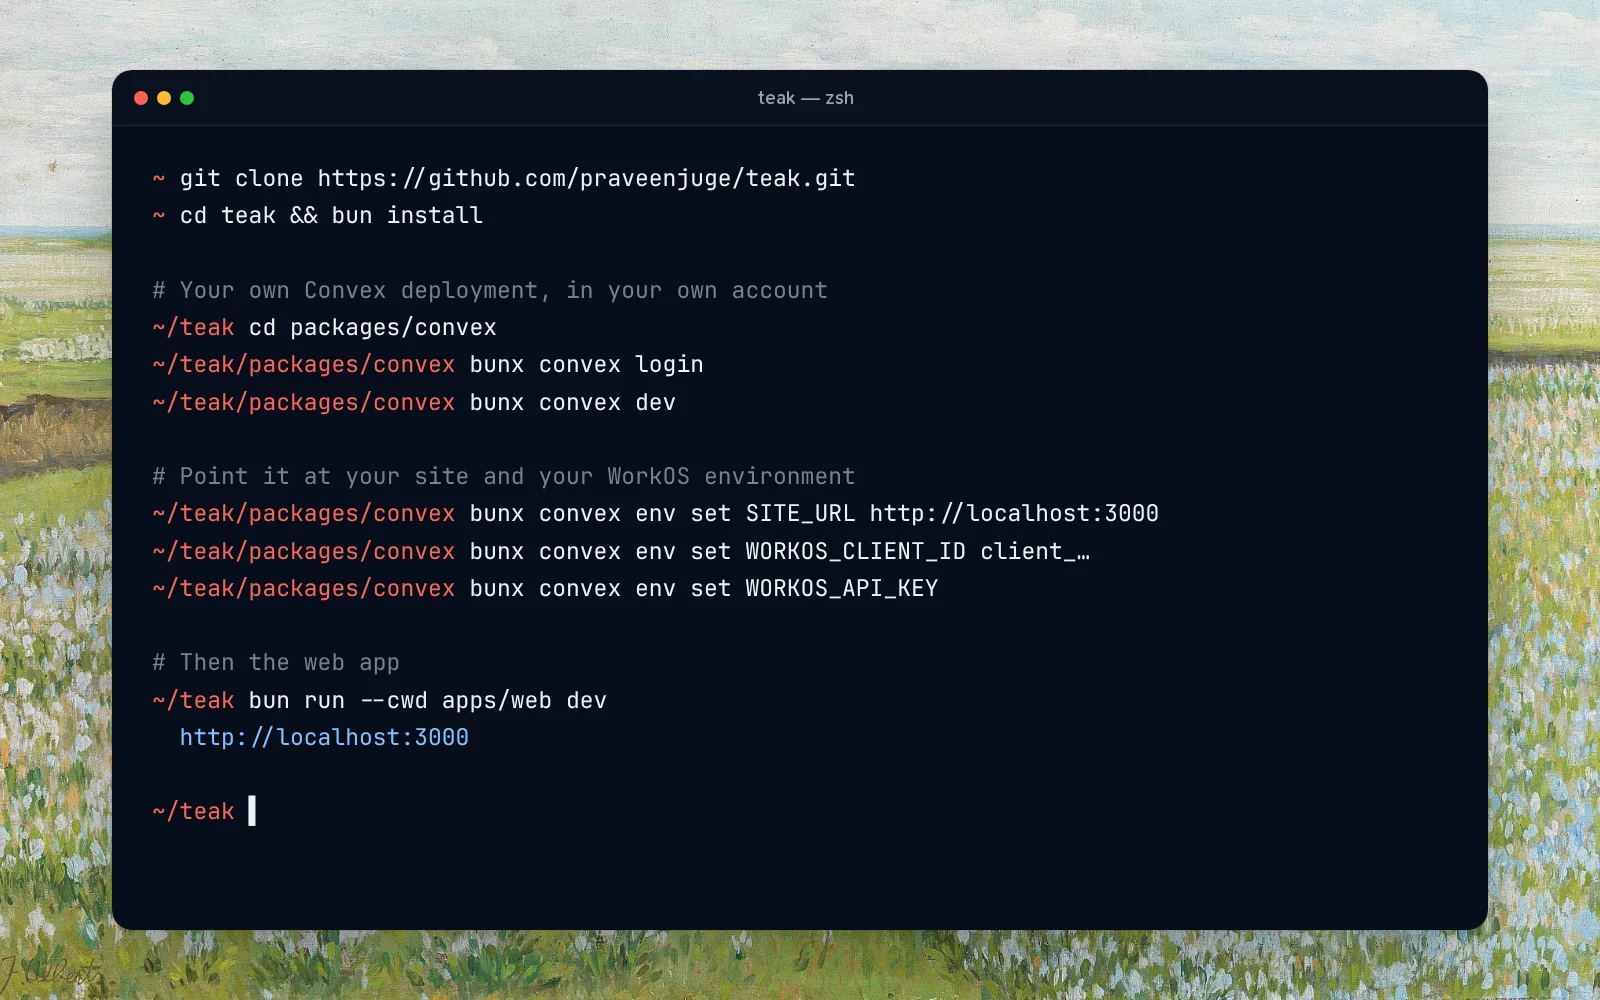
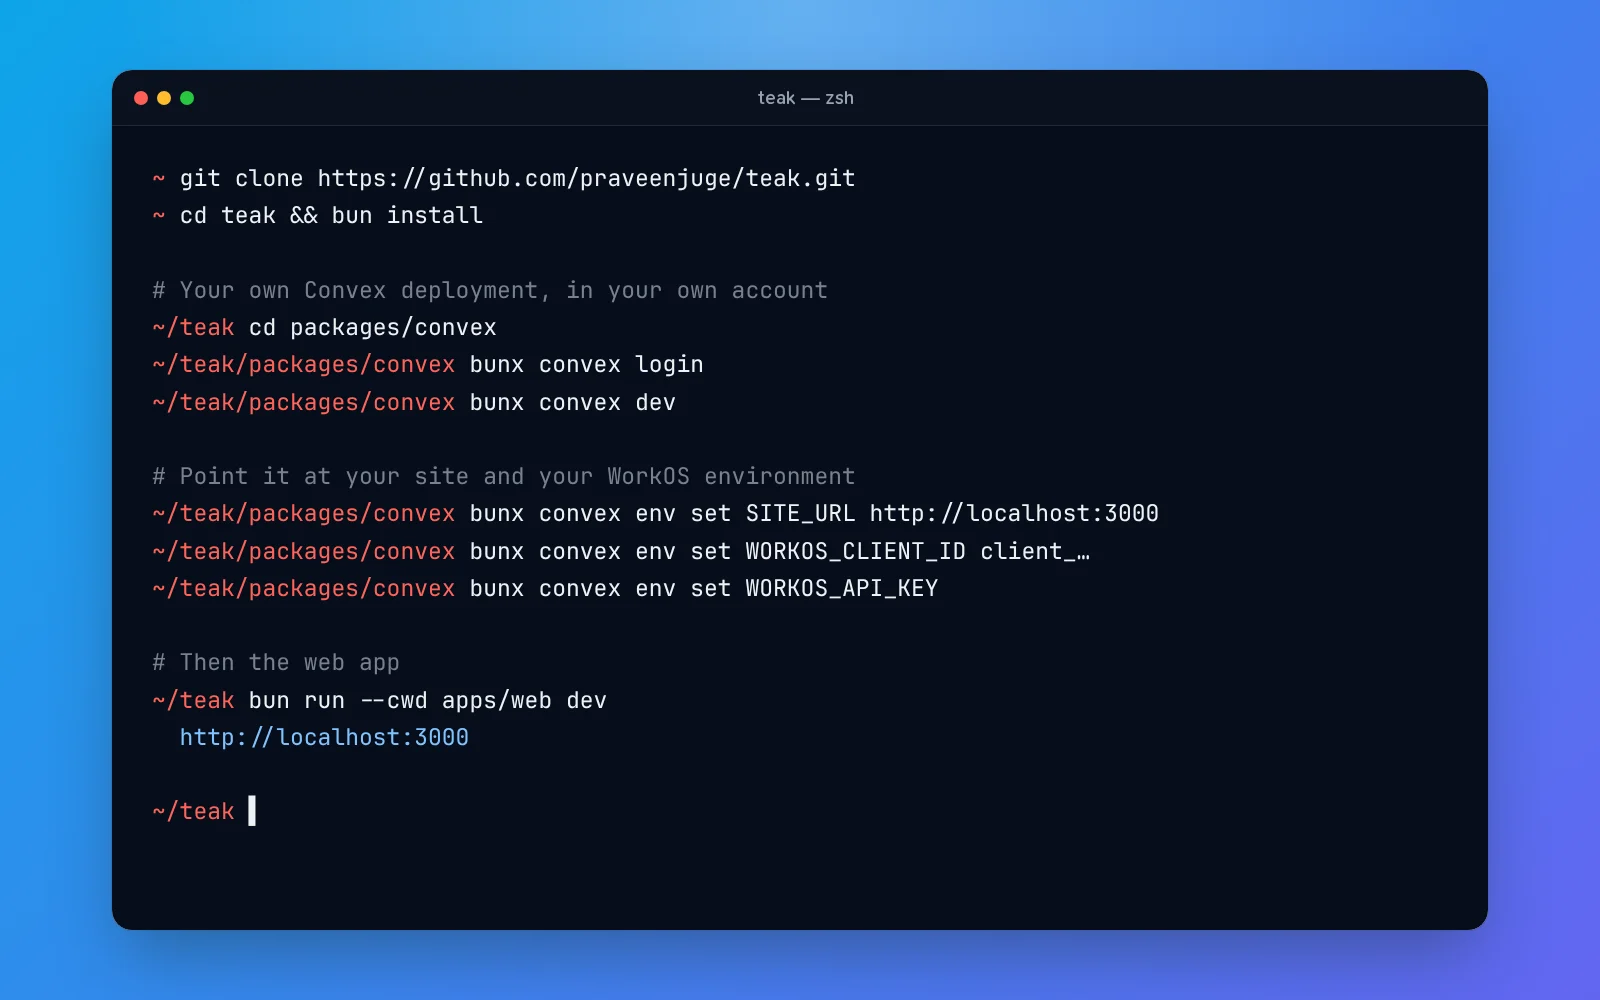
feat(docs): give blog images colorful backdrops instead of the meadow
Every blog image now sits on its own two-color gradient, set per shot with
a new `backdrop` field in scripts/docs-assets, so the covers on /blog don't
all share the meadow. Docs images keep the meadow. shots.test.ts checks
that each blog shot has a backdrop and that no two share one.

Claude-Session: https://claude.ai/code/session_01WdsWDxRFyEhS7DXkoRzPhP

Changed region(s): [[0.0, 0.0, 1.0, 1.0]]

diff --git a/scripts/docs-assets/shots.ts b/scripts/docs-assets/shots.ts
@@ -28,6 +28,11 @@ export type MockId =
 interface ShotBase {
   /** The image's alt text, also used as its Markdown alt. */
   alt: string;
+  /**
+   * Two colors for a diagonal gradient that replaces the meadow behind the
+   * window. Blog images use one each, so the covers don't all look alike.
+   */
+  backdrop?: [string, string];
   /** Output file name, without extension. */
   name: string;
   /** Where the image is written, relative to the repository root. */
@@ -304,6 +309,7 @@ SHOTS.push(
 SHOTS.push(
   {
     name: "why-we-built-teak",
+    backdrop: ["#f43f5e", "#fdba74"],
     kind: "web",
     layout: "window",
     out: BLOG_IMAGES,
@@ -311,6 +317,7 @@ SHOTS.push(
   },
   {
     name: "rediscovering-what-you-saved",
+    backdrop: ["#8b5cf6", "#f472b6"],
     kind: "web",
     layout: "window",
     out: BLOG_IMAGES,
@@ -318,6 +325,7 @@ SHOTS.push(
   },
   {
     name: "search-by-meaning",
+    backdrop: ["#2563eb", "#22d3ee"],
     kind: "web",
     layout: "window",
     out: BLOG_IMAGES,
@@ -325,6 +333,7 @@ SHOTS.push(
   },
   {
     name: "embedding-models",
+    backdrop: ["#1d4ed8", "#38bdf8"],
     kind: "mock",
     mock: "blog-embedding-models",
     out: BLOG_IMAGES,
@@ -332,6 +341,7 @@ SHOTS.push(
   },
   {
     name: "build-a-moodboard-in-teak",
+    backdrop: ["#f97316", "#facc15"],
     kind: "web",
     layout: "window",
     out: BLOG_IMAGES,
@@ -339,6 +349,7 @@ SHOTS.push(
   },
   {
     name: "small-features-in-teak",
+    backdrop: ["#10b981", "#a3e635"],
     kind: "web",
     layout: "window",
     out: BLOG_IMAGES,
@@ -346,6 +357,7 @@ SHOTS.push(
   },
   {
     name: "from-link-to-card",
+    backdrop: ["#4f46e5", "#a855f7"],
     kind: "mock",
     mock: "blog-card-pipeline",
     out: BLOG_IMAGES,
@@ -353,6 +365,7 @@ SHOTS.push(
   },
   {
     name: "one-monorepo-every-platform",
+    backdrop: ["#0d9488", "#60a5fa"],
     kind: "mock",
     mock: "blog-monorepo",
     out: BLOG_IMAGES,
@@ -360,6 +373,7 @@ SHOTS.push(
   },
   {
     name: "teak-for-ai-agents",
+    backdrop: ["#db2777", "#fb923c"],
     kind: "mock",
     mock: "blog-agent-session",
     out: BLOG_IMAGES,
@@ -367,6 +381,7 @@ SHOTS.push(
   },
   {
     name: "self-hosting-teak",
+    backdrop: ["#0ea5e9", "#6366f1"],
     kind: "mock",
     mock: "blog-self-host",
     out: BLOG_IMAGES,
@@ -374,6 +389,7 @@ SHOTS.push(
   },
   {
     name: "building-teak-in-public",
+    backdrop: ["#df2225", "#f59e0b"],
     kind: "mock",
     mock: "blog-timeline",
     out: BLOG_IMAGES,

diff --git a/scripts/docs-assets/render.ts b/scripts/docs-assets/render.ts
@@ -176,9 +176,13 @@ if (import.meta.main) {
       ? `<body style="width:${size.width}px;height:${size.height}px;background:#fff"><img class="shot" src="${pathToFileURL(captureFile(shot.name)).href}"></body>`
       : `<body>${shot.kind === "web" ? webHtml(shot) : renderMock(shot.mock, { library })}</body>`;
     const html = path.join(htmlDir, `${shot.name}.html`);
+    // A backdrop swaps the meadow for a gradient, with a soft light from the top.
+    const backdrop = shot.backdrop
+      ? `<style>body{background:linear-gradient(135deg,${shot.backdrop[0]},${shot.backdrop[1]})}body::before{background:radial-gradient(ellipse at 50% 0%,rgba(255,255,255,.28),rgba(255,255,255,0) 60%)}</style>`
+      : "";
     writeFileSync(
       html,
-      `${base()}${raw ? "<style>body::before{display:none}</style>" : ""}${body}`
+      `${base()}${raw ? "<style>body::before{display:none}</style>" : ""}${backdrop}${body}`
     );
     await page.setViewportSize(size);
     await page.goto(pathToFileURL(html).href);

diff --git a/scripts/docs-assets/shots.test.ts b/scripts/docs-assets/shots.test.ts
@@ -152,6 +152,14 @@ describe("blog images", () => {
     expect(wrong).toEqual([]);
   });
 
+  test("every blog shot has its own colored backdrop instead of the meadow", () => {
+    expect(
+      blogShots.filter((shot) => !shot.backdrop).map((shot) => shot.name)
+    ).toEqual([]);
+    const backdrops = blogShots.map((shot) => shot.backdrop?.join());
+    expect(new Set(backdrops).size).toBe(backdrops.length);
+  });
+
   test("every blog shot is rendered and shown, and nothing else sits in its images/", () => {
     const files = readdirSync(blogImagesDir).sort();
     expect(files).toEqual(blogShots.map((shot) => `${shot.name}.webp`).sort());

diff --git a/scripts/docs-assets/README.md b/scripts/docs-assets/README.md
@@ -64,6 +64,7 @@ shot's alt text: `![<alt>](./images/<name>.webp)`, or `../images/` from a page
 in a group folder.
 
 Blog posts (`apps/docs/content/blog`) use the same pipeline. A blog shot sets
-`out: BLOG_IMAGES`, and each post opens with its cover, the shot named after
-the post's file. A post can also show a docs image with
+`out: BLOG_IMAGES` and its own `backdrop`, a two-color gradient that replaces
+the meadow, and each post opens with its cover, the shot named after the
+post's file. A post can also show a docs image with
 `../docs/images/<name>.webp`. `shots.test.ts` checks both.
